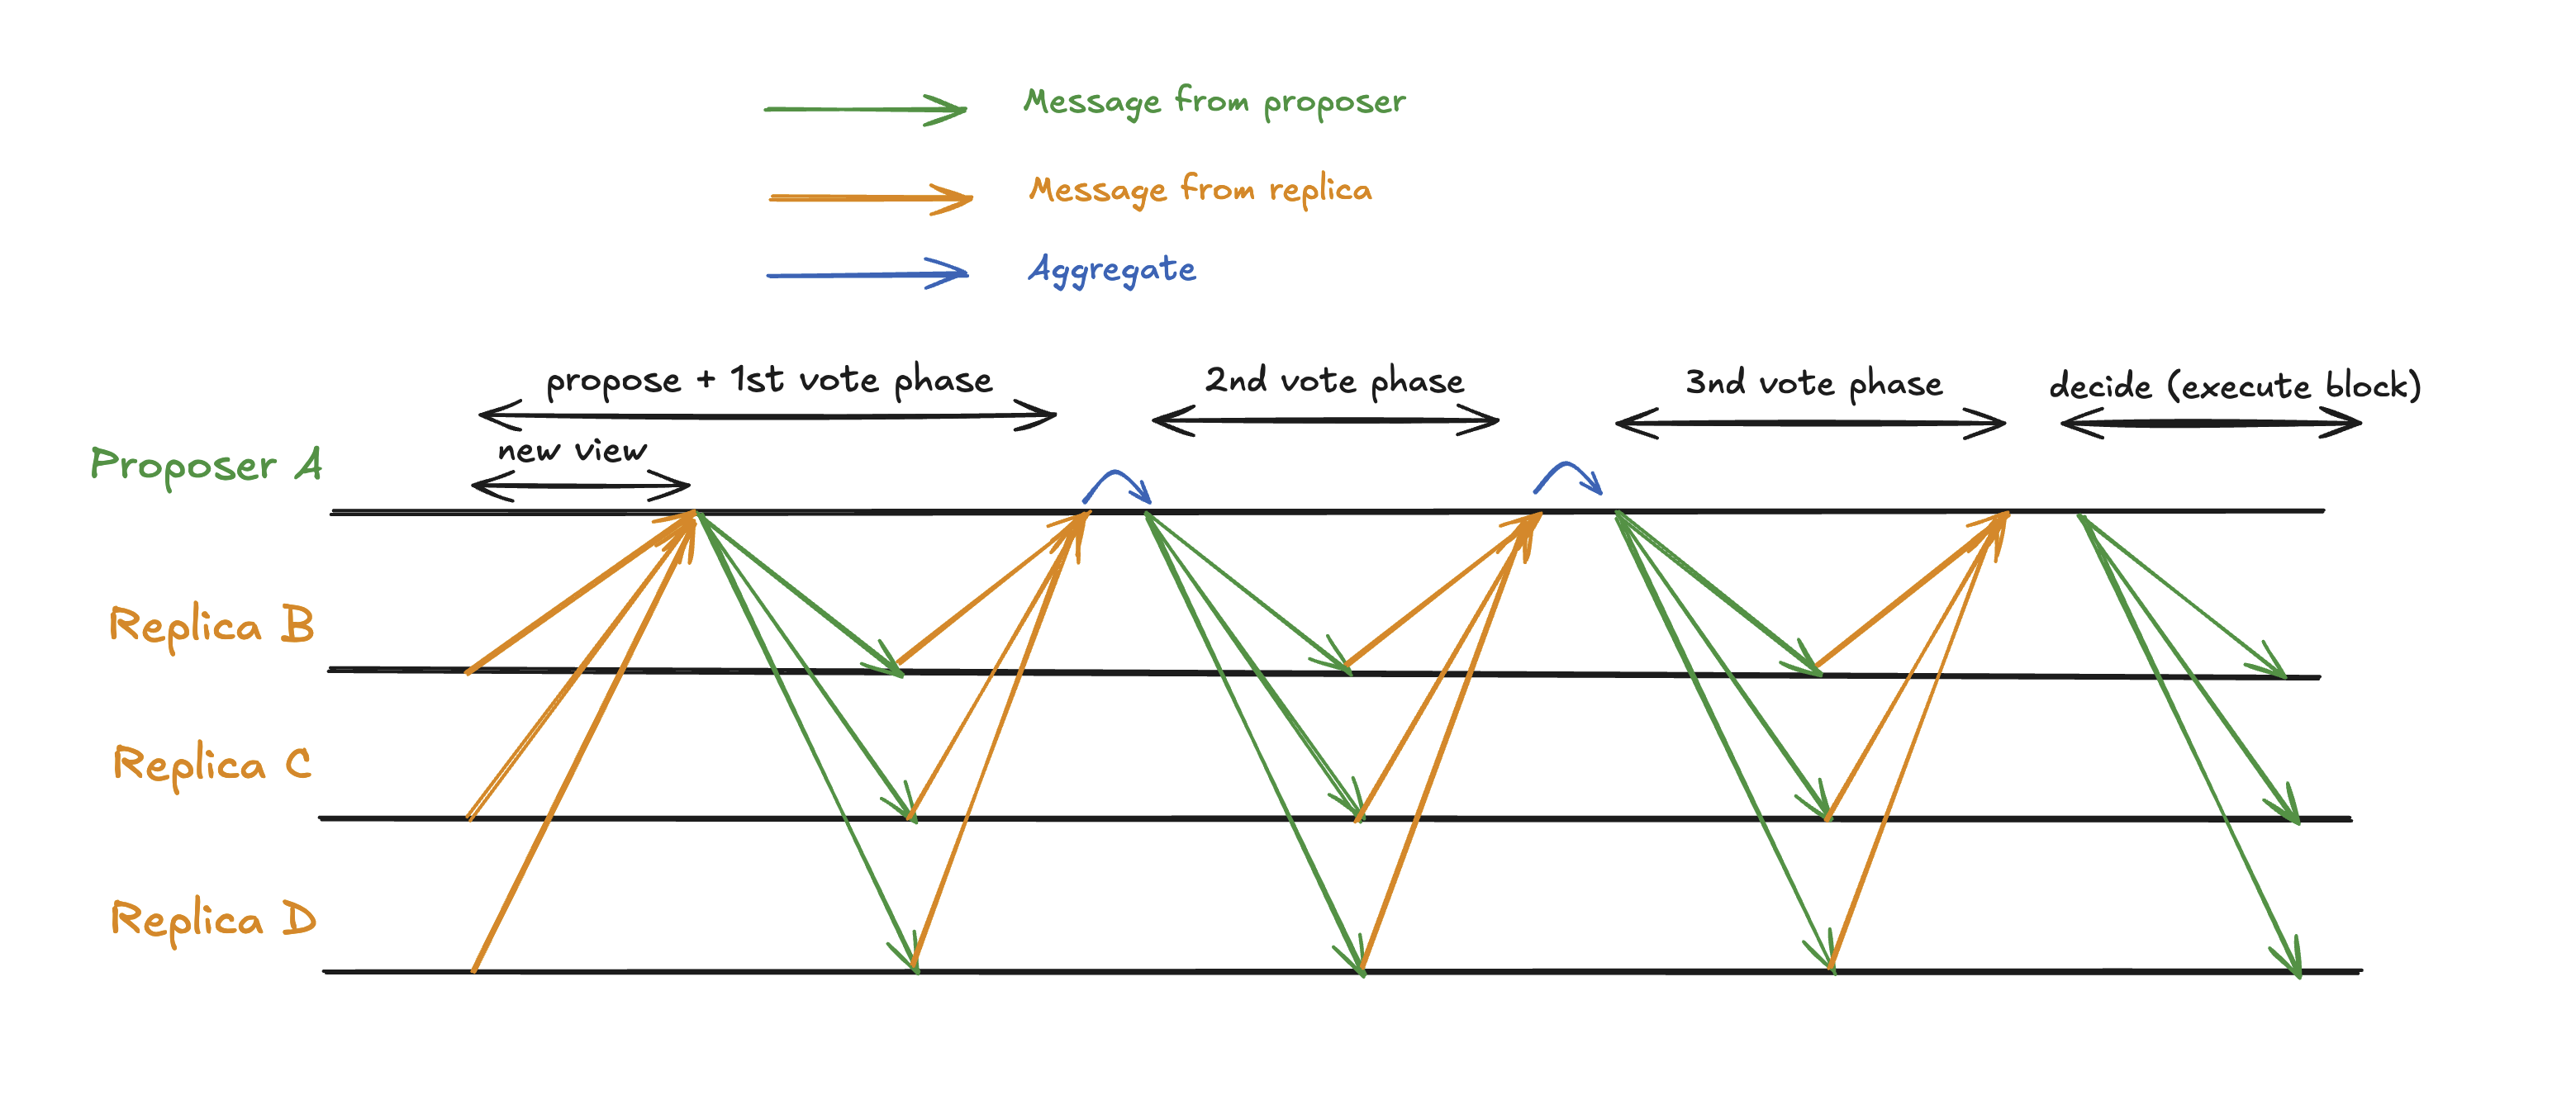
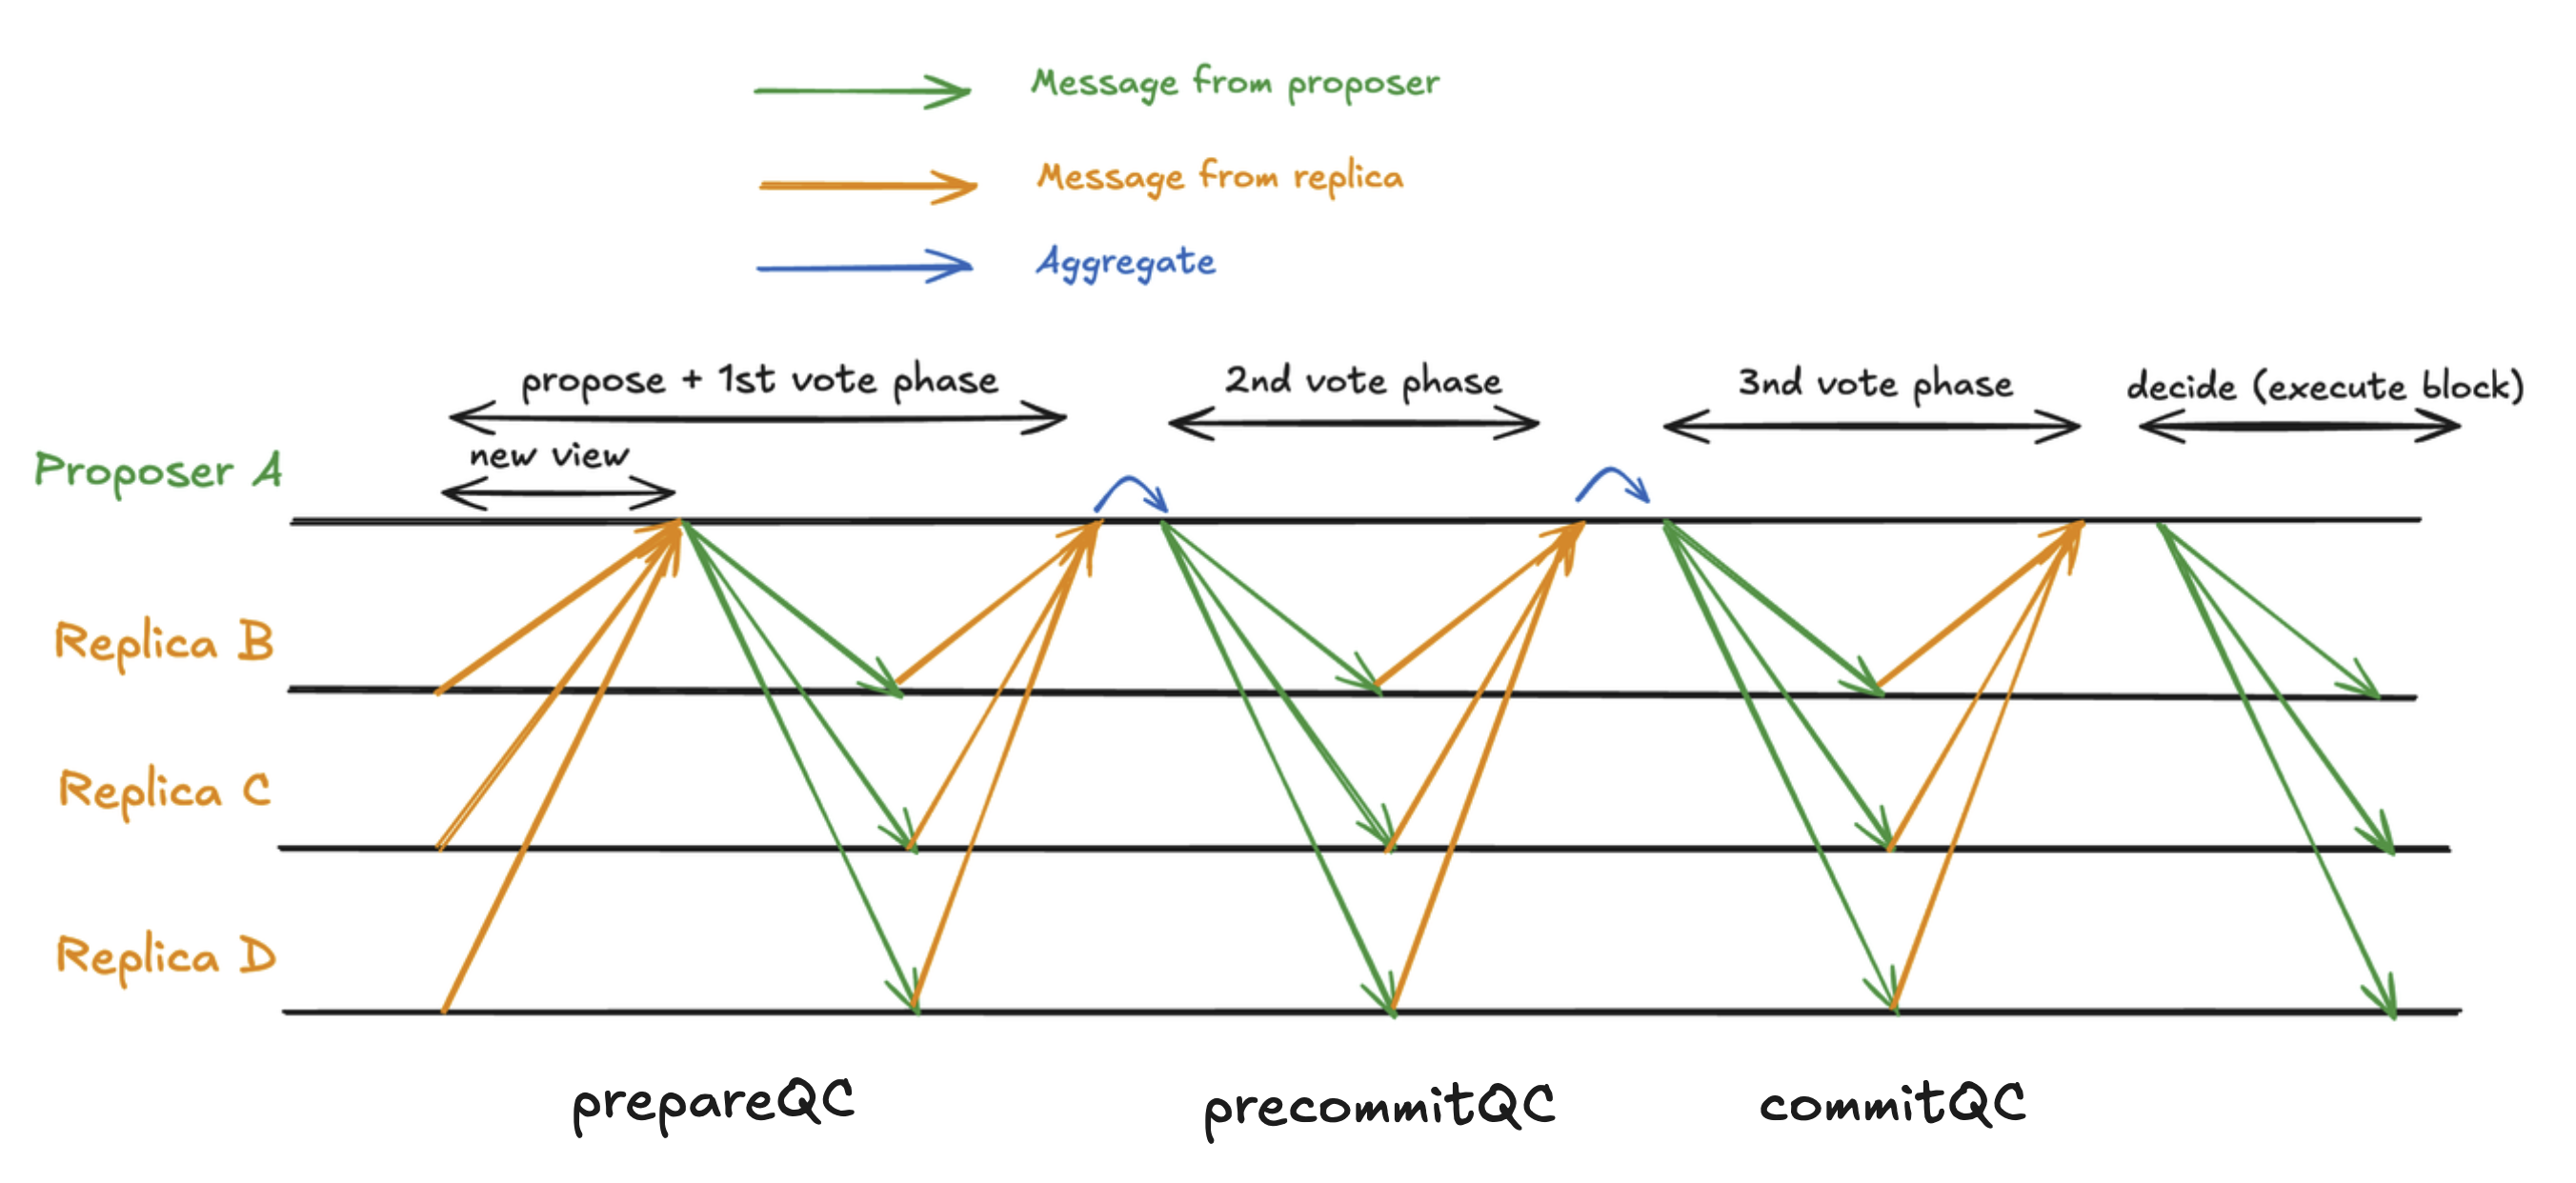
feat: sBFT and Simplex family.

diff --git a/content/research/consensus-reading-log/sections/01-leader-based-consensus.md b/content/research/consensus-reading-log/sections/01-leader-based-consensus.md
@@ -262,7 +262,7 @@ That is why the algorithm begins with `NEW-VIEW` messages.
 
 At the start of a view, the leader waits for `NEW-VIEW` messages from `n - f` replicas.
 Each replica sends its highest known `prepareQC`.
-The leader picks the highest one and calls it `highQC`.
+The leader picks the highest one and calls it `hihttps://file+.vscode-resource.vscode-cdn.net/Users/perfogic/Workspace/Research/consensus-papers/assets/images/consensus/01/01.png?version%3D1778411744426ghQC`.
 
 This gives the leader a concrete parent block to build on.
 In blockchain language, `highQC.node` is the highest safe parent block the leader currently knows how to extend.
@@ -309,7 +309,7 @@ The `PRE-COMMIT` phase is what makes that possible.
 So the `PRE-COMMIT` phase does one precise job:
 it turns “the leader has a `prepareQC`” into “enough replicas also know that same `prepareQC` for the next leader to recover it later”.
 
-#### Phase 3. Commit
+#### Phase 3. COMMIT
 
 Once the leader has enough `PRE-COMMIT` votes, it forms `precommitQC` and broadcasts a `COMMIT` message carrying it.
 
@@ -324,7 +324,7 @@ From this point on, a replica should not vote for a conflicting branch unless it
 So the `COMMIT` phase does one precise job:
 it converts a supported proposal into a locked proposal.
 
-#### Phase 4. Decide
+#### Phase 4. DECIDE
 
 Finally, once the leader has enough `COMMIT` votes, it forms `commitQC` and broadcasts `DECIDE`.
 
@@ -382,10 +382,228 @@ Crucially, this simplification does not come at the cost of optimistic responsiv
 
 <details>
 <summary>sBFT</summary>
+
+sBFT is one of the early PBFT-family protocols that explicitly tries to add a **fast path**.
+This means: in the optimistic case, one sequence slot can finish with only **one real voting round**.
+
+It has two modes:
+
+- a fast path that tries to finish in one voting round;
+- a slower fallback path that keeps PBFT's backbone, but in a more optimized form.
+
+### Main Changes From PBFT
+
+#### From PBFT To Linear PBFT
+
+The first change is the communication pattern.
+PBFT is expensive because its normal path is all-to-all:
+
+- the leader broadcasts a proposal;
+- replicas broadcast votes to other replicas;
+- replicas broadcast again in the second voting phase.
+
+sBFT starts by dealing with that cost.
+
+Instead of every replica talking to every other replica, replicas send their signature shares to a small set of **collectors**.
+Those collectors **aggregate the shares into one threshold proof**, then broadcast the aggregated proof back to the replicas.
+
+So the message shape changes from:
+
+- PBFT: all-to-all voting
+
+to:
+
+- sBFT: replica-to-collector, then collector-to-all
+
+That is the core idea behind what the paper calls **linear PBFT**.
+
+Once this collector structure is in place, the same design direction is reused in two more places.
+
+First, sBFT uses threshold signatures both in the voting path and in the execution path, so client acknowledgement can also be aggregated into one proof.
+
+Second, instead of relying on only one collector, sBFT uses `c + 1` collectors so that the common path is less fragile when a few collectors are slow or faulty.
+
+#### Adding A Fast Path
+
+The second big change is the fast path.
+
+PBFT needs two voting phases before commit.
+sBFT asks whether the optimistic case can finish after only one voting round.
+
+This fast path works with:
+
+`n = 3f + 2c + 1`
+
+Here:
+
+- `f` is still the Byzantine threshold for **safety**;
+- `c` is extra slack for the optimistic path, so a small number of crashed or straggler replicas do not immediately kill it.
+
+Overall, this means that if the collectors can gather `3f + c + 1` matching signatures, the protocol can finish on the fast path. But keep in mind that the real Byzantine safety bound is still `f`: once there are more than `f` Byzantine replicas, safety is no longer guaranteed.
+
+Its fast path has three communication steps:
+
+- `PRE-PREPARE`
+- `SIGN-SHARE`
+- `COMMIT-PROOF`
+
+The primary first broadcasts `PRE-PREPARE` with the decision block.
+
+Then replicas do the only real vote of the fast path:
+each replica signs the block hash once and sends that signature share to the commit collectors.
+
+When a collector receives enough shares, it combines them into one threshold proof `σ(h)` and broadcasts a `full-commit-proof`.
+After receiving that proof, replicas can commit.
+
+#### Why One Voting Round Is Safe Here
+
+With:
+
+- `n = 3f + 2c + 1`
+- fast-path threshold `n - c = 3f + c + 1`
+
+a fast commit proof `σ(h)` means at least
+
+`(3f + c + 1) - f = 2f + c + 1`
+
+honest replicas signed that value.
+
+That is the key difference from PBFT.
+The fast certificate leaves behind a much larger honest witness set.
+
+Now look at the next view change.
+The new primary collects:
+
+`2f + 2c + 1`
+
+view-change messages.
+
+Let `FC` be the `2f + c + 1` honest replicas that signed the old fast-path value, and let `I` be the `2f + 2c + 1` view-change messages collected by the next leader.
+
+Both sets live inside a system of size:
+
+`n = 3f + 2c + 1`
+
+so they cannot avoid overlapping.
+
+More precisely:
+
+`|FC ∩ I| >= |FC| + |I| - n`
+
+`= (2f + c + 1) + (2f + 2c + 1) - (3f + 2c + 1)`
+
+`= f + c + 1`
+
+Since `f + c + 1 > f`, this overlap cannot be entirely Byzantine.
+So every valid new-view quorum must still contain honest witnesses for the old fast-path value, and that is why safety survives view change.
+
+### Algorithm
+
+The algorithm is easiest to read as two cases.
+
+Before that, there is one notation detail worth fixing.
+
+- `σ(h)` is the **fast-path threshold proof**. It needs the larger threshold `3f + c + 1`, so if a collector can form `σ(h)`, the protocol can finish on the fast path.
+- `τ(h)` is the **slow-path threshold proof**. It needs the smaller threshold `2f + c + 1`, so it is easier to form, but it is not enough to commit immediately. Instead, it is used to start the slower PBFT-style fallback path.
+
+So the distinction is simple:
+
+- `σ(h)` tries to finish in one voting round;
+- `τ(h)` is the certificate that lets the protocol safely continue in the slower path.
+
+#### Case 1. Fast path
+
+The fast path communication pattern is:
+
+- leader broadcasts `PRE-PREPARE`;
+- replicas send `SIGN-SHARE` messages to the commit collectors;
+- a collector aggregates enough shares into `σ(h)` and broadcasts `full-commit-proof`.
+
+This is the optimistic case: one voting round is enough, and collectors turn those shares into one commit proof.
+If that proof cannot be formed in time, the protocol does not abandon the collector structure. It keeps the same communication pattern and falls back to a slower PBFT-style path.
+
+#### Case 2. Fallback slow path
+
+If the fast path does not finish, sBFT falls back to Linear-PBFT.
+
+The slow path still starts from the same `PRE-PREPARE`.
+Replicas send `SIGN-SHARE` messages as before, but now the collectors use those shares to start the slower PBFT-style path.
+
+Its message flow is:
+
+- a collector that can form `τ(h)` but not `σ(h)` waits for a timeout, then broadcasts `PREPARE`;
+- replicas send `COMMIT` shares back to the collectors;
+- a collector aggregates those shares into `full-commit-proof-slow` and broadcasts it.
+
+So even the slower path is still trying to remove PBFT's all-to-all communication cost.
+
+The important point is that sBFT is not "fast path or completely different protocol".
+It is PBFT's commit logic rebuilt on top of collectors and threshold signatures.
+
+#### Visualization
+
+![alt text](/assets/images/consensus/01/02.png)
+
+### Complexity
+
+Compared with PBFT, the common asymptotic picture is:
+
+| Scenario                     |      PBFT |      sBFT |
+| ---------------------------- | --------: | --------: |
+| Correct leader               |  `O(n^2)` |    `O(n)` |
+| Leader failure / view change |  `O(n^3)` |  `O(n^2)` |
+| `f` leader failures          | `O(fn^3)` | `O(fn^2)` |
+
+The main improvement comes from the collector pattern:
+
+- replicas send shares to collectors;
+- collectors aggregate them into one threshold proof;
+- the rest of the system sees one compact certificate instead of many separate votes.
+
+### Why sBFT Still Was Not The End
+
+sBFT is important because it makes the one-round idea concrete inside a PBFT-family system.
+
+And if you push its parameter all the way to `c = f`, then:
+
+`n = 3f + 2c + 1 = 5f + 1`
+
+That is the more important takeaway.
+The point of the fast path is not that it somehow keeps PBFT's full `33%` Byzantine tolerance and then becomes faster for free.
+The point is that if we are willing to move from the usual `3f + 1` world, where the system tolerates up to one-third Byzantine faults, into a `5f + 1` world, where the effective one-round regime only tolerates about `20%` Byzantine faults, then one-round fast finality becomes achievable.
+
+However, this protocol is still not widely used in practice, because its view-change mechanism remains large and complicated. Even though the common path becomes linear, the protocol still has to reconcile fast-path evidence and slow-path evidence during leader change, and that makes recovery heavy.
+
+### Further details
+
+For a more detailed walkthrough, I keep a longer version here: [Link](https://coded-distributed-arrays.notion.site/sBFT-34e0f6a329b4805c9687c6d52b470029)
+
 </details>
 
 <details>
 <summary>Simplex</summary>
+
+After sBFT, the next branch of protocols keeps the one-round idea but tries to rethink the relationship between the fast path and the fallback path more cleanly.
+
+Three algorithms are especially useful to keep in mind here:
+
+- **Alpenglow**: works under the same `n >= 5f + 1` assumption. It discusses a setting with additional crash tolerance, but that extra story depends on assumptions that break once a Byzantine leader can equivocate on proposals under partial synchrony.
+- **Kudzu**: works in the more general `n >= 3f + 2p + 1` model, where `p` is a tunable parameter. During synchrony, a correct leader can finalise after one voting round as long as the number of faulty processors is at most `p`. If the number of faulty processors is strictly between `p` and `f`, the protocol falls back to a slow path. This also means the fast-path quorum in Kudzu is larger than in Minimmit: `n - p` rather than `n - f`.
+- **Hydrangea**: pushes harder on crash resilience. For `n = 3f + 2c + k + 1`, it can still finalise after one voting round when the number of faulty processors is at most `p = floor((c + k) / 2)`. In more adversarial settings with up to `f` Byzantine faults and `c` crash faults, it still has a two-round fallback.
+
+So the main differences among these protocols are not just “who has a fast path”.
+They differ in:
+
+- how much resilience they keep in the one-round regime;
+- when they fall back to a slower path;
+- and how much crash-failure flexibility they retain.
+
+The next section will move to a newer protocol in this same line of work: **Minimmit**, a more recent protocol from the Commonware line that explores this design space further.
+
+I will come back later with separate sections for **Banyan**, **Kudzu**, and **Alpenglow**, since each of them deserves its own comparison.
+
+**// Notes in progress.**
+
 </details>
 
 <details>